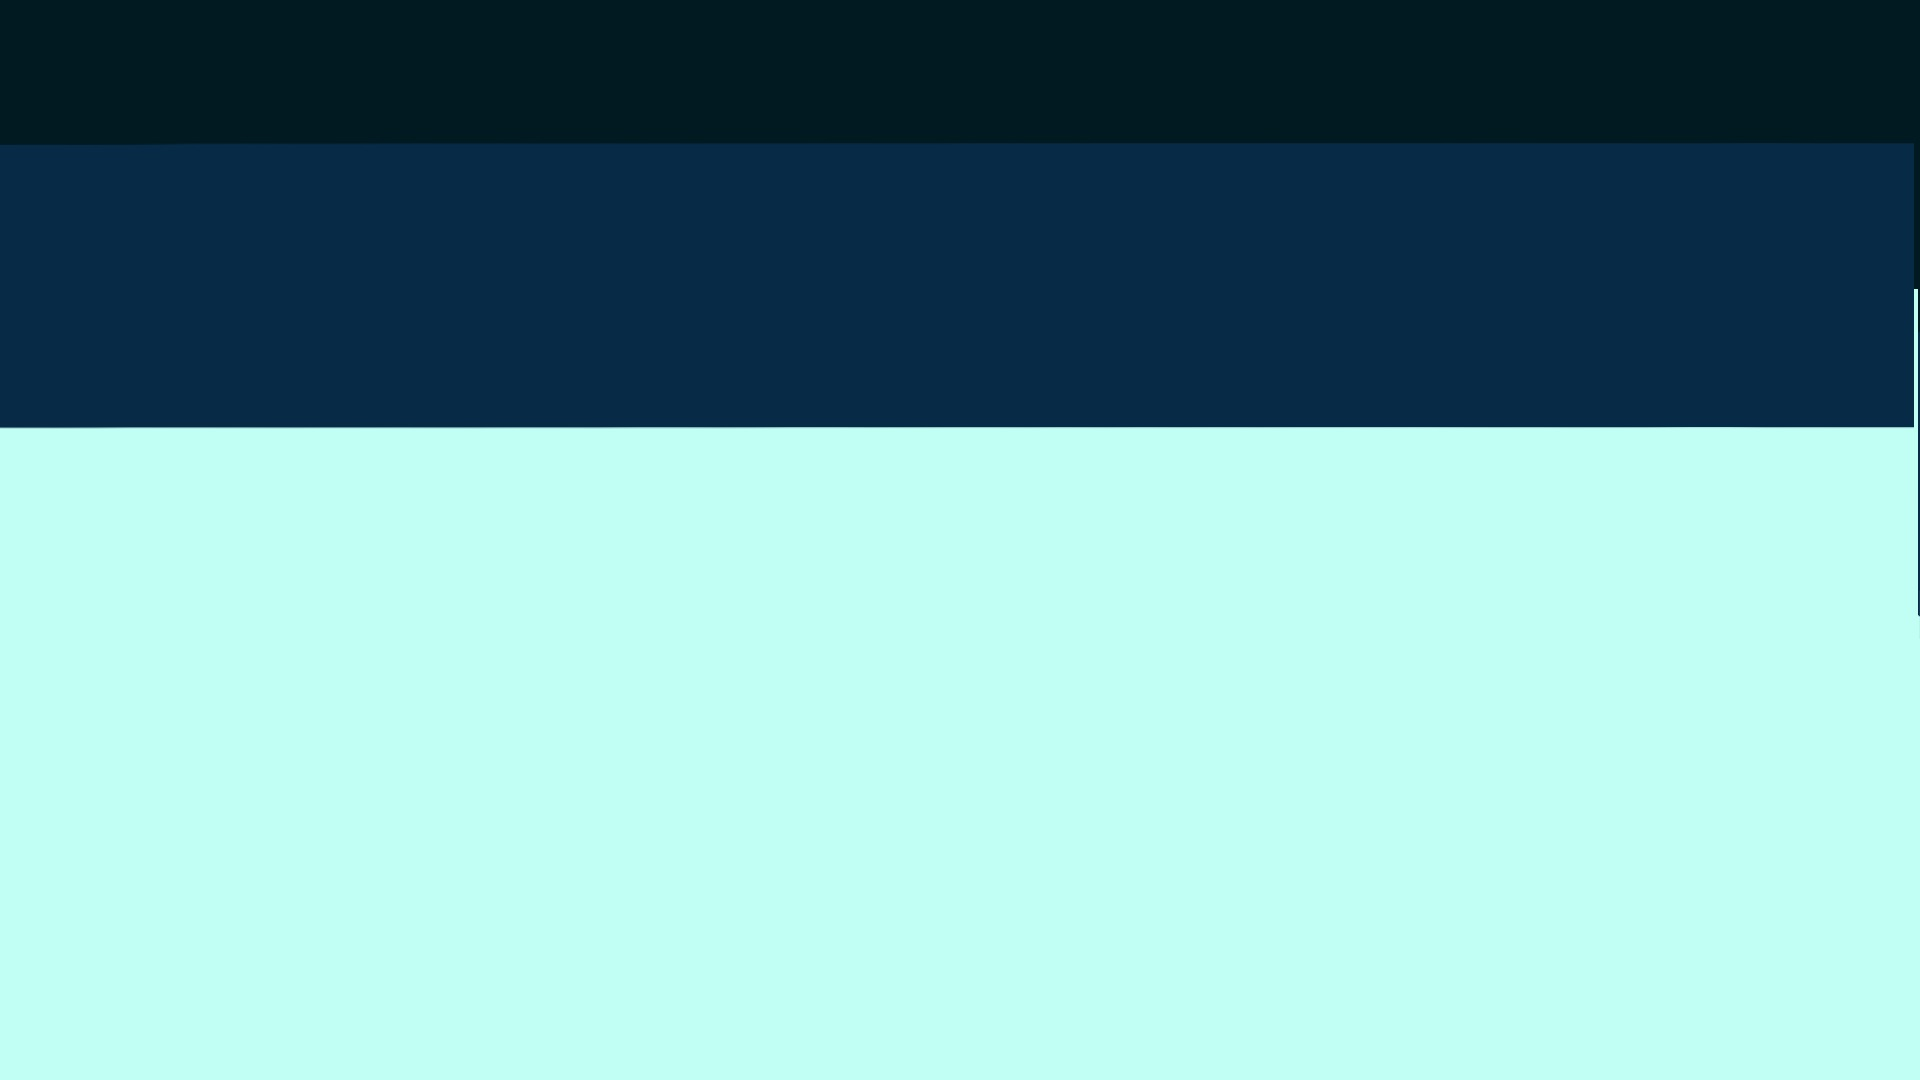
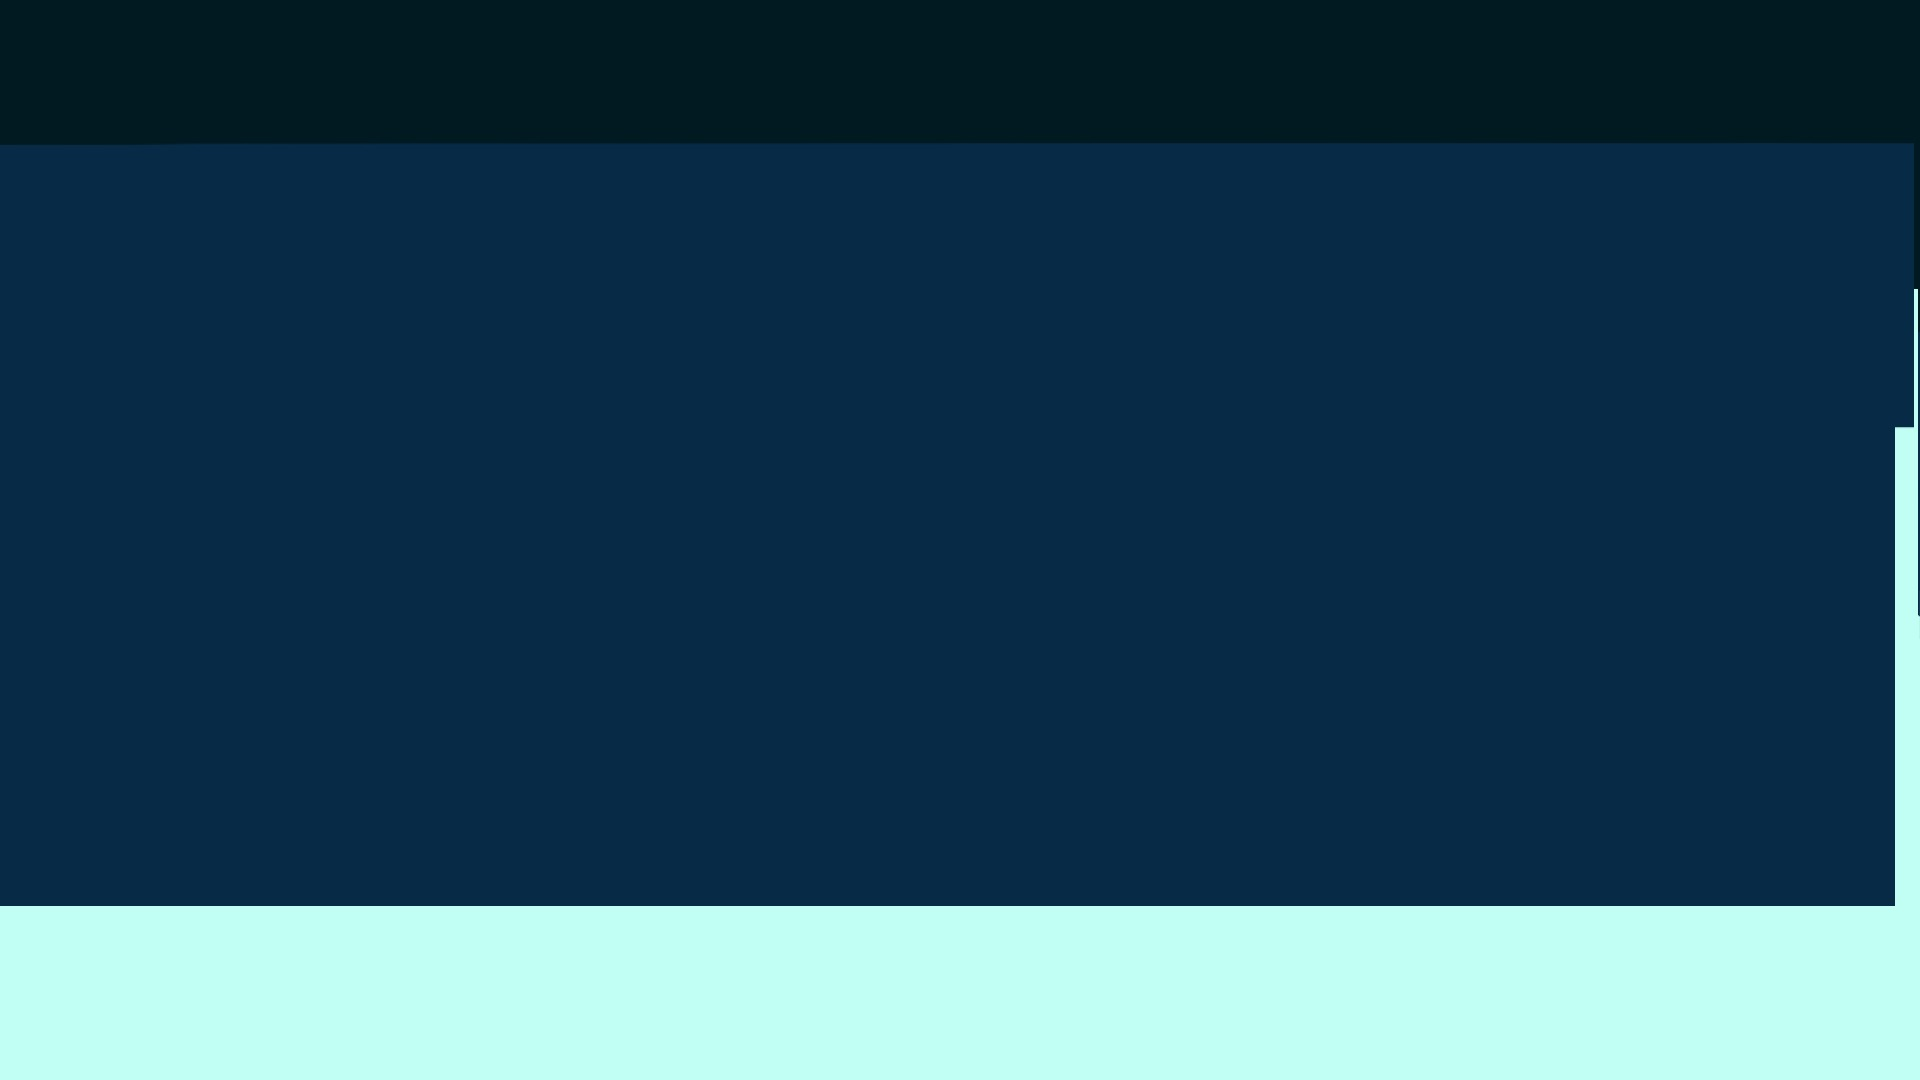
pokrok

diff --git a/individual_work/pololetni-prace/index.html b/individual_work/pololetni-prace/index.html
@@ -1,5 +1,6 @@
 <!DOCTYPE html>
 <html lang="en">
+
 <head>
     <meta charset="UTF-8">
     <meta http-equiv="X-UA-Compatible" content="IE=edge">
@@ -8,32 +9,53 @@
     <link rel="stylesheet" href="reset.css">
     <title>Pololetní Práce</title>
 </head>
+
 <body>
     <div class="pozadi">
-    <div class="header">
-        <div class="header1">
-            <div class="popisky">   <a href="#druha-cast">O MNĚ</a>    </div>
-            <div class="popisky"><a href="treti-cast">PROJEKTY</a> </div>
-            <div class="popisky"><a href="ctvrta-cast">FOTKY</a></div>
+        <div class="header">
+            <div class="header1">
+                <div class="popisky"> <a href="#druha-cast">O MNĚ</a> </div>
+                <div class="popisky"><a href="treti-cast">PROJEKTY</a> </div>
+                <div class="popisky"><a href="ctvrta-cast">FOTKY</a></div>
+            </div>
         </div>
-    </div> 
-    <div class="podheader" style="background-image:url('minimalist-wallpaper-1920x1080-1.jpg') ;">
-        <div class="leva"> </div>
-        <div class="stred"> <div class="nadpis">Lukáš Novotný</div></div>
-        <div class="prava"> </div>
-    </div>
-    <section id="druha-cast">
-        <div class="o-mne">O MNĚ</div>
-        <section class="plocha">
-            <div class="ctverec"></div>
-            <div class="ctverec"></div>
-            <div class="ctverec"></div>
-            <div class="ctverec"></div>
+        <div class="podheader" style="background-image:url('minimalist-wallpaper-1920x1080-1.jpg') ;">
+            <div class="leva"> </div>
+            <div class="stred">
+                <div class="nadpis">Lukáš Novotný</div>
+            </div>
+            <div class="prava"> </div>
+        </div>
+        <section id="druha-cast">
+            <div class="o-mne">O MNĚ</div>
+            <section class="plocha">
+                <div class="ctverec">
+                    <div>
+                        <h2 class="textnadpis underline">Pozemní hokej</h>
+                    </div>
+                    <div class="textokno">
+                        <p class="text">Pozemní hokej hraju již 7 let. Celou dobu za klub hc President, ale jednu sezónu
+                            jsem hostoval za tým hc Praga 1946. Většinu času hraju na pozici pravého obránce.</p>
+                    </div>
 
-        </div>
+                </div>
+                <div class="ctverec">
+                    <div>
+                        <h2 class="textnadpis underline">Střední škola</h2>
+                    </div>
+                    <div>
+                        <p class="text">V roce 2021 jsem nastoupil na Smíchovskou střední průmyslovou školu, kde nyní
+                            studuji 2. ročník obor IT. Nejvíce ze všech předmětů mě baví WBA ;).</p>
+                    </div>
+                </div>
+                <div class="ctverec"></div>
+                <div class="ctverec"></div>
+
+    </div>
 
     </div>
 
     </div>
 </body>
+
 </html>

diff --git a/individual_work/pololetni-prace/style.css b/individual_work/pololetni-prace/style.css
@@ -132,8 +132,29 @@ justify-content:space-around
 }
 .ctverec{
 margin: 50px;
-background-color: rgb(45, 146, 70);
+background-color: rgb(30, 162, 185);
 width:40%;
 height: 30%;
+}
+.text{
+padding-top: 0;
+padding-left: 10px;
+padding-bottom: 10px;
+padding-right: 10px;
+font-family: Roboto, Helvetica, Arial, sans-serif;
+font-size: 1rem;
+text-decoration: none;
 
+}
+.textnadpis{
+margin: 10px;
+
+}
+.text, .popisky ,a ,.o-mne, .textnadpis
+{
+    font-family: Roboto, Helvetica, Arial, sans-serif;
+}
+.underline
+{
+    text-decoration-line: underline;
 }
